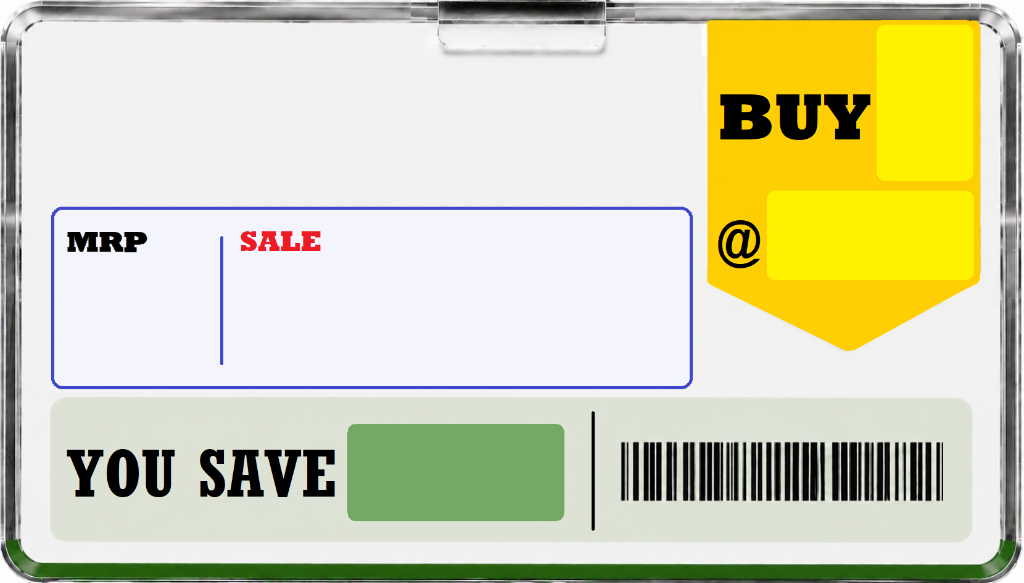
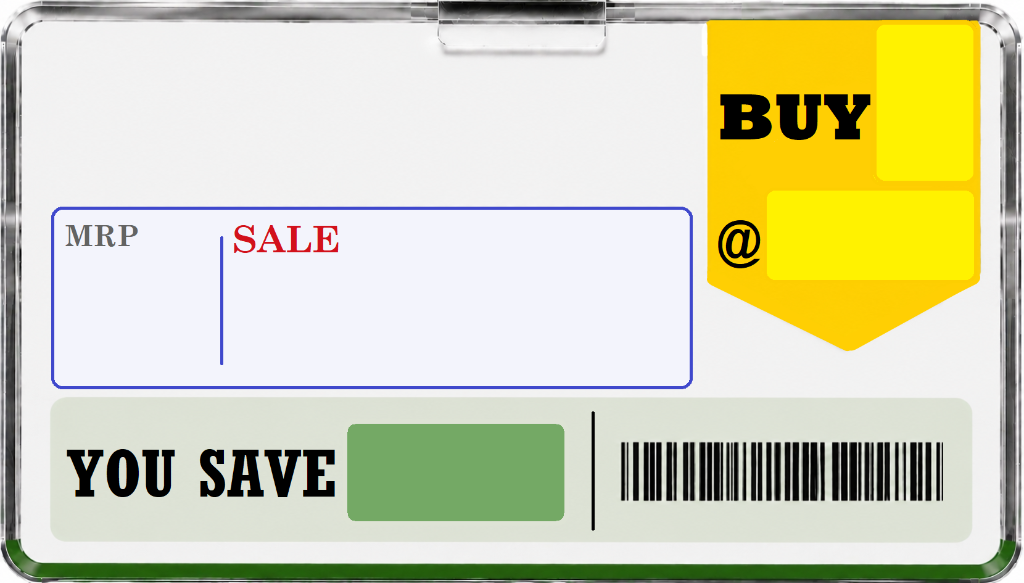
Fix: Replace PNG template assets with latest uploaded template pictures (Build 202608132206)

Changed region(s): [[0.2188, 0.3705, 0.3438, 0.4322], [0.0625, 0.3705, 0.1562, 0.4322]]

diff --git a/frontend/customer/js/build-env.js b/frontend/customer/js/build-env.js
@@ -1,10 +1,10 @@
 // Automatically generated build metadata
 window.APP_BUILD = {
   version: "0.1.0",
-  build: "202608132203",
-  commit: "2db7270",
+  build: "202608132206",
+  commit: "18c5b34",
   branch: "main",
-  buildTime: "2026-08-13T22:03:38.225Z",
+  buildTime: "2026-08-13T22:06:22.285Z",
   environment: "production",
   serviceWorkerEnabled: true
 };

diff --git a/frontend/customer/index.html b/frontend/customer/index.html
@@ -11,7 +11,7 @@
   <!-- html5-qrcode library for barcode camera decoding -->
   <script src="js/libs/html5-qrcode.min.js"></script>
   <script src="js/scanner.js"></script>
-  <script>window.HTML_BUILD = "202608132203";</script>
+  <script>window.HTML_BUILD = "202608132206";</script>
 </head>
 <body>
   <div class="app-shell">

diff --git a/frontend/customer/sw.js b/frontend/customer/sw.js
@@ -1,4 +1,4 @@
-const CACHE_NAME = '78pricecheck-202608132203';
+const CACHE_NAME = '78pricecheck-202608132206';
 const ASSETS_TO_CACHE = [
   './',
   './index.html',
